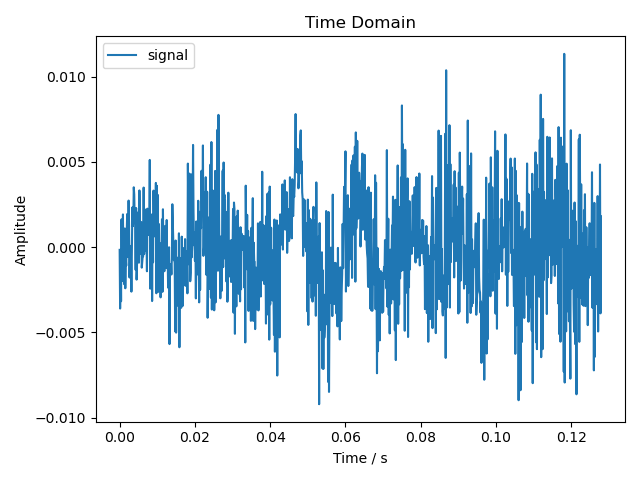
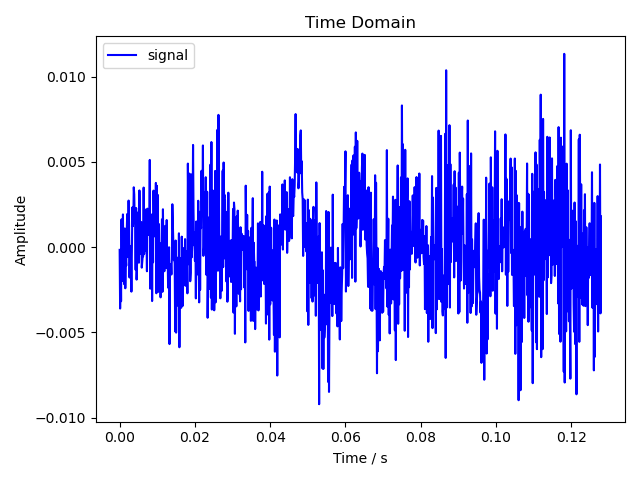
feat: utilize numpy's implementation of fft as a reference

Changed region(s): [[0.1875, 0.125, 0.9375, 0.8438], [0.625, 0.2188, 0.6562, 0.25], [0.1875, 0.0938, 0.2188, 0.125]]

diff --git a/utils.py b/utils.py
@@ -12,10 +12,30 @@ def plot_time_domain(output_path: str, t: np.ndarray, y: np.ndarray) -> None:
         `y`: amplitudes of samples
     '''
 
+    plt.figure()
     plt.title('Time Domain')
     plt.xlabel('Time / s')
     plt.ylabel('Amplitude')
-    plt.plot(t, y, label='signal')
+    plt.plot(t, y, c='blue', label='signal')
+    plt.legend()
+    plt.tight_layout()
+    plt.savefig(output_path)
+
+def plot_freq_domain(output_path: str, f: np.ndarray, y: np.ndarray) -> None:
+    '''
+    Plot the amplitude spectrum of a wave in frequency domain.
+
+    Args:
+        `output_path`: path to the output figure
+        `f`: frequency range
+        `y`: amplitude spectrum
+    '''
+
+    plt.figure()
+    plt.title('Frequency Domain')
+    plt.xlabel('Frequency / Hz')
+    plt.ylabel('Amplitude')
+    plt.plot(f, y, c='red', label='power')
     plt.legend()
     plt.tight_layout()
     plt.savefig(output_path)

diff --git a/main.py b/main.py
@@ -1,12 +1,14 @@
 import numpy as np
+import numpy.fft as nf
 import librosa
 
-from utils import plot_time_domain
+from utils import *
 
 
 # Parameters
 wav_path = 'data/signal.wav'
 fig_time_path = 'assets/time_domain.png'
+fig_freq_path = 'assets/freq_domain.png'
 sample_rate = 8000.
 n_samples = 1024
 
@@ -19,6 +21,13 @@ def main() -> None:
     t0 = np.arange(0, n_samples, 1) / sr
     y0 = y[:n_samples]
     plot_time_domain(fig_time_path, t0, y0)
+
+    # Do FFT.
+    y0_freqs = nf.fftfreq(n_samples, 1 / sr)
+    y0_fft = np.abs(nf.fft(y0))
+    plot_freq_domain(
+        fig_freq_path, y0_freqs[y0_freqs >= 0],  y0_fft[y0_freqs >= 0],
+    )
 
 
 if __name__ == '__main__':
